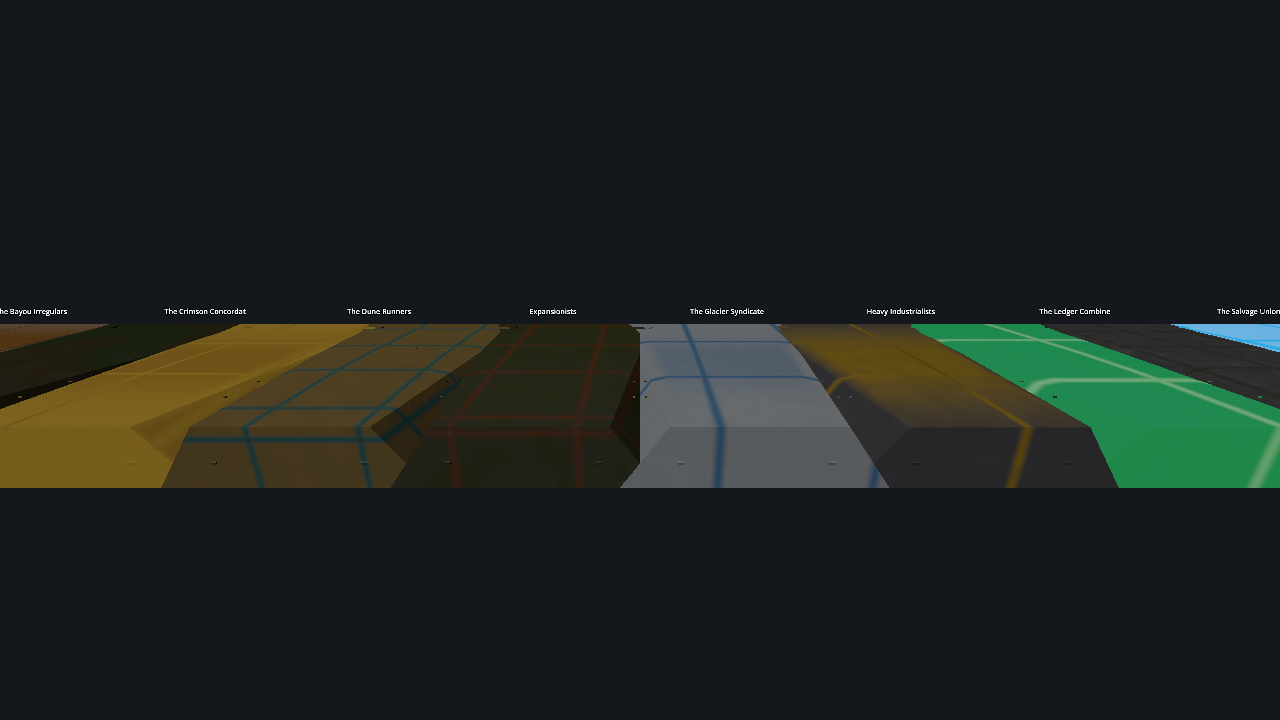
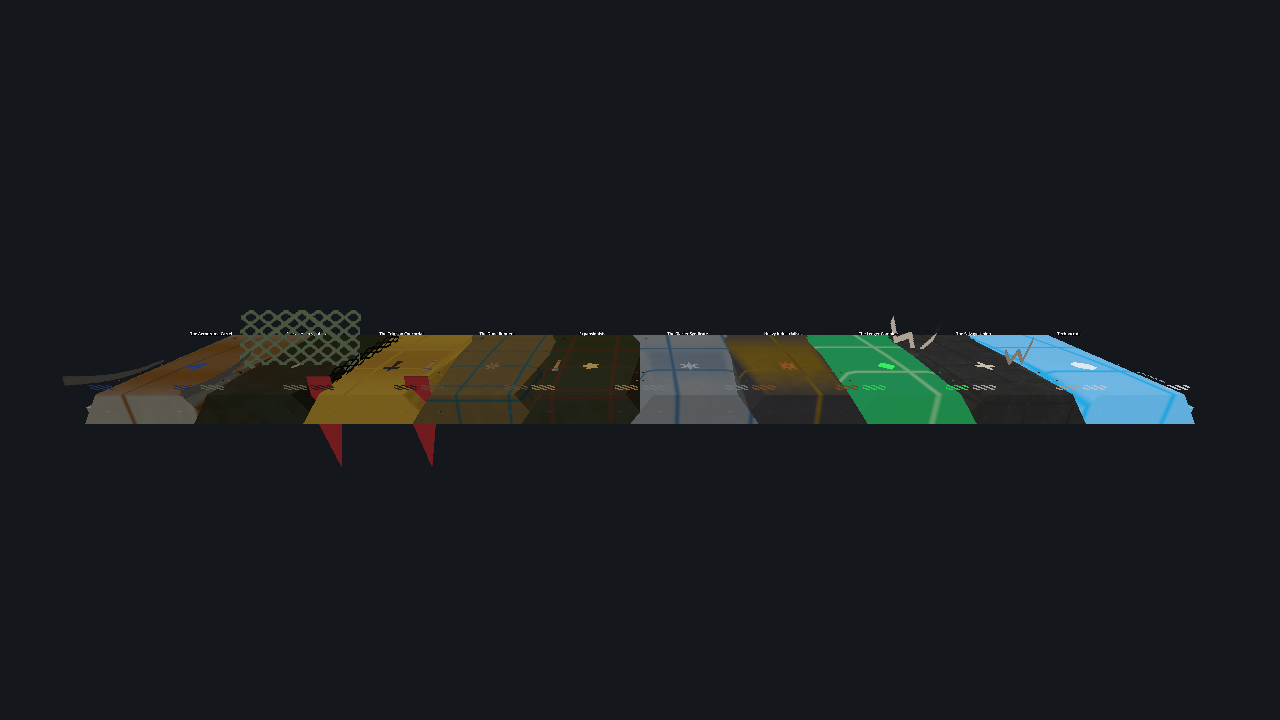
Material/faction polish review pass: verified already-finished, no code changes needed
Surveyed all 10 factions on medium_hull (updated the existing lineup capture's
camera to actually fit all 10 in frame - it was cropping 1-2 before) plus 5
individual close-ups and a direct read of wear_amount/grime_amount across the
whole catalog. Conclusion: the material/decal system is genuinely in a
finished state already - all 10 factions read as distinct at a glance, the
wear/grime spread is clearly deliberate (0.05-0.65, clean-corporate factions
at one end, the scavenger faction at the other), decals render crisp and
legible per-faction.

Corrected a stale note in DECISIONS_NEEDED.md: an earlier session flagged
decal_tint as an inert placeholder, which was true then but got resolved by
the later decal-atlas work - hull_decals.gd genuinely re-tints per faction now.

No geometry/shader/script changes in this commit - this is a review
checkpoint, logged so a future pass doesn't re-litigate ground already
covered or "fix" things that already work.

Changed region(s): [[0.0, 0.4278, 1.0, 0.7028], [0.0, 0.4278, 0.0938, 0.4889]]

diff --git a/DECISIONS_NEEDED.md b/DECISIONS_NEEDED.md
@@ -22,6 +22,20 @@ Newest entries first. Each entry: the question, the default I'm proceeding with,
 
 ---
 
+## 2026-07-13 (new session, cont'd 8) — Material/faction polish review: no code changes, genuinely already finished
+
+**Not blocking - a review pass, not a fix pass.**
+
+Surveyed all 10 factions on medium_hull (wide lineup + 5 individual close-ups: industrialists, ledger_combine, glacier_syndicate, salvage_union, crimson_concordat) plus checked `wear_amount`/`grime_amount` values across all 10 catalog entries directly. Conclusion: **the material/decal system is already in a genuinely finished state, not something needing more iteration right now.** All 10 factions read as clearly distinct at a glance (different base colors, different decal/greeble treatment, different wear intensity); the wear_amount/grime_amount spread (0.05-0.65) is clearly deliberate, not arbitrary - clean corporate factions (glacier_syndicate 0.08/0.03, ledger_combine 0.05/0.03) sit at one end, the scavenger faction (salvage_union 0.65/0.65) at the other, with the rest spread sensibly between. Decals (hazard stripes/stencils/mascot crests) render crisp and legibly per-faction.
+
+**One stale note from an earlier session's log is now corrected:** the 2026-07-13 (cont'd 3) entry said "`decal_tint` is a wired-but-inert placeholder." That was true AT THE TIME (before the decal/greeble work in cont'd 4-6 landed) but is no longer accurate - `hull_decals.gd` now genuinely re-tints the shared decal atlas per faction via `get_visual_decal_tint()`, confirmed both by reading the code and by the screenshots above showing distinctly-colored decals per faction. Not fixing anything here since there's nothing broken - just flagging so a future session doesn't waste time "fixing" something already working.
+
+**Not chasing invented problems.** Chris's instruction was to keep iterating "until it looks finished," not to keep touching things regardless. Since the actual finding is "already finished," the honest and correct move is to say so rather than make cosmetic tweaks to manufacture a sense of progress. Redirecting remaining effort to the Tier 2 geometry work (deck-line/waist-inset/panel-grooves) instead, since that's where the design doc's own priority list still has clear, undone, high-value work.
+
+**One pre-existing runtime warning noticed but not chased down:** `ERROR: Condition "!is_inside_tree()" is true` appeared a few times during the first faction-lineup capture (not the later ones). Screenshots and the automated test suite were unaffected either way, and nothing in this session's changes touches node-tree ordering in blueprint_manager.gd/visual_builder.gd's reconstruction path, so this reads as a pre-existing, non-fatal cosmetic warning rather than a regression - flagging for awareness, not treating as blocking.
+
+---
+
 ## 2026-07-13 (new session, cont'd 6) — TripoSG feasibility read, then Geometric Polish Pass Tier 1 started on medium_hull
 
 **Not blocking.**